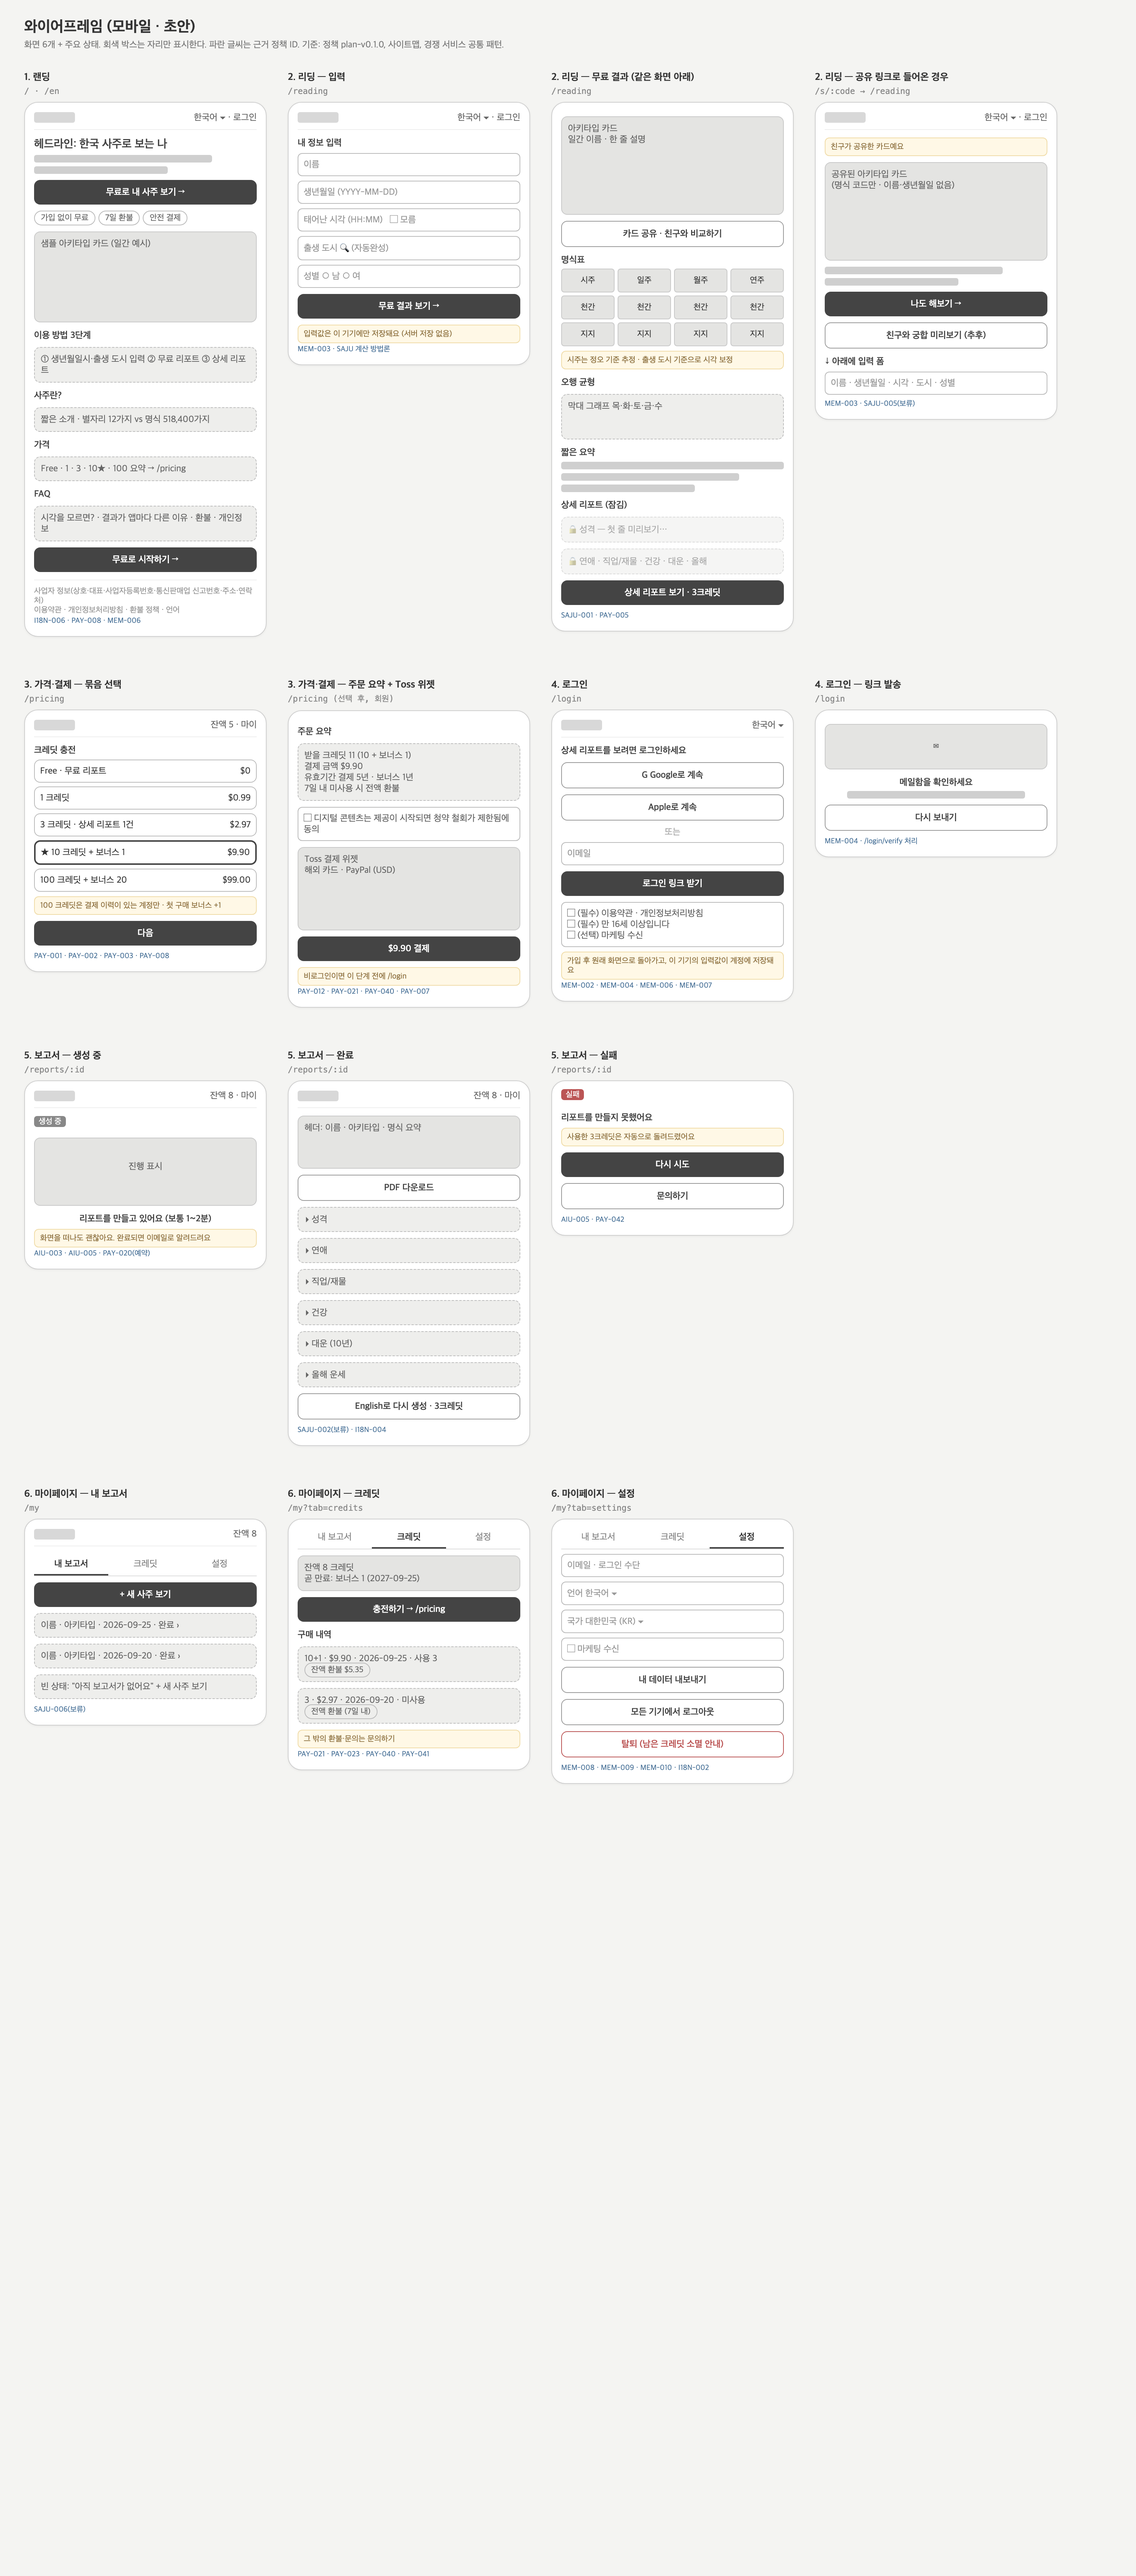
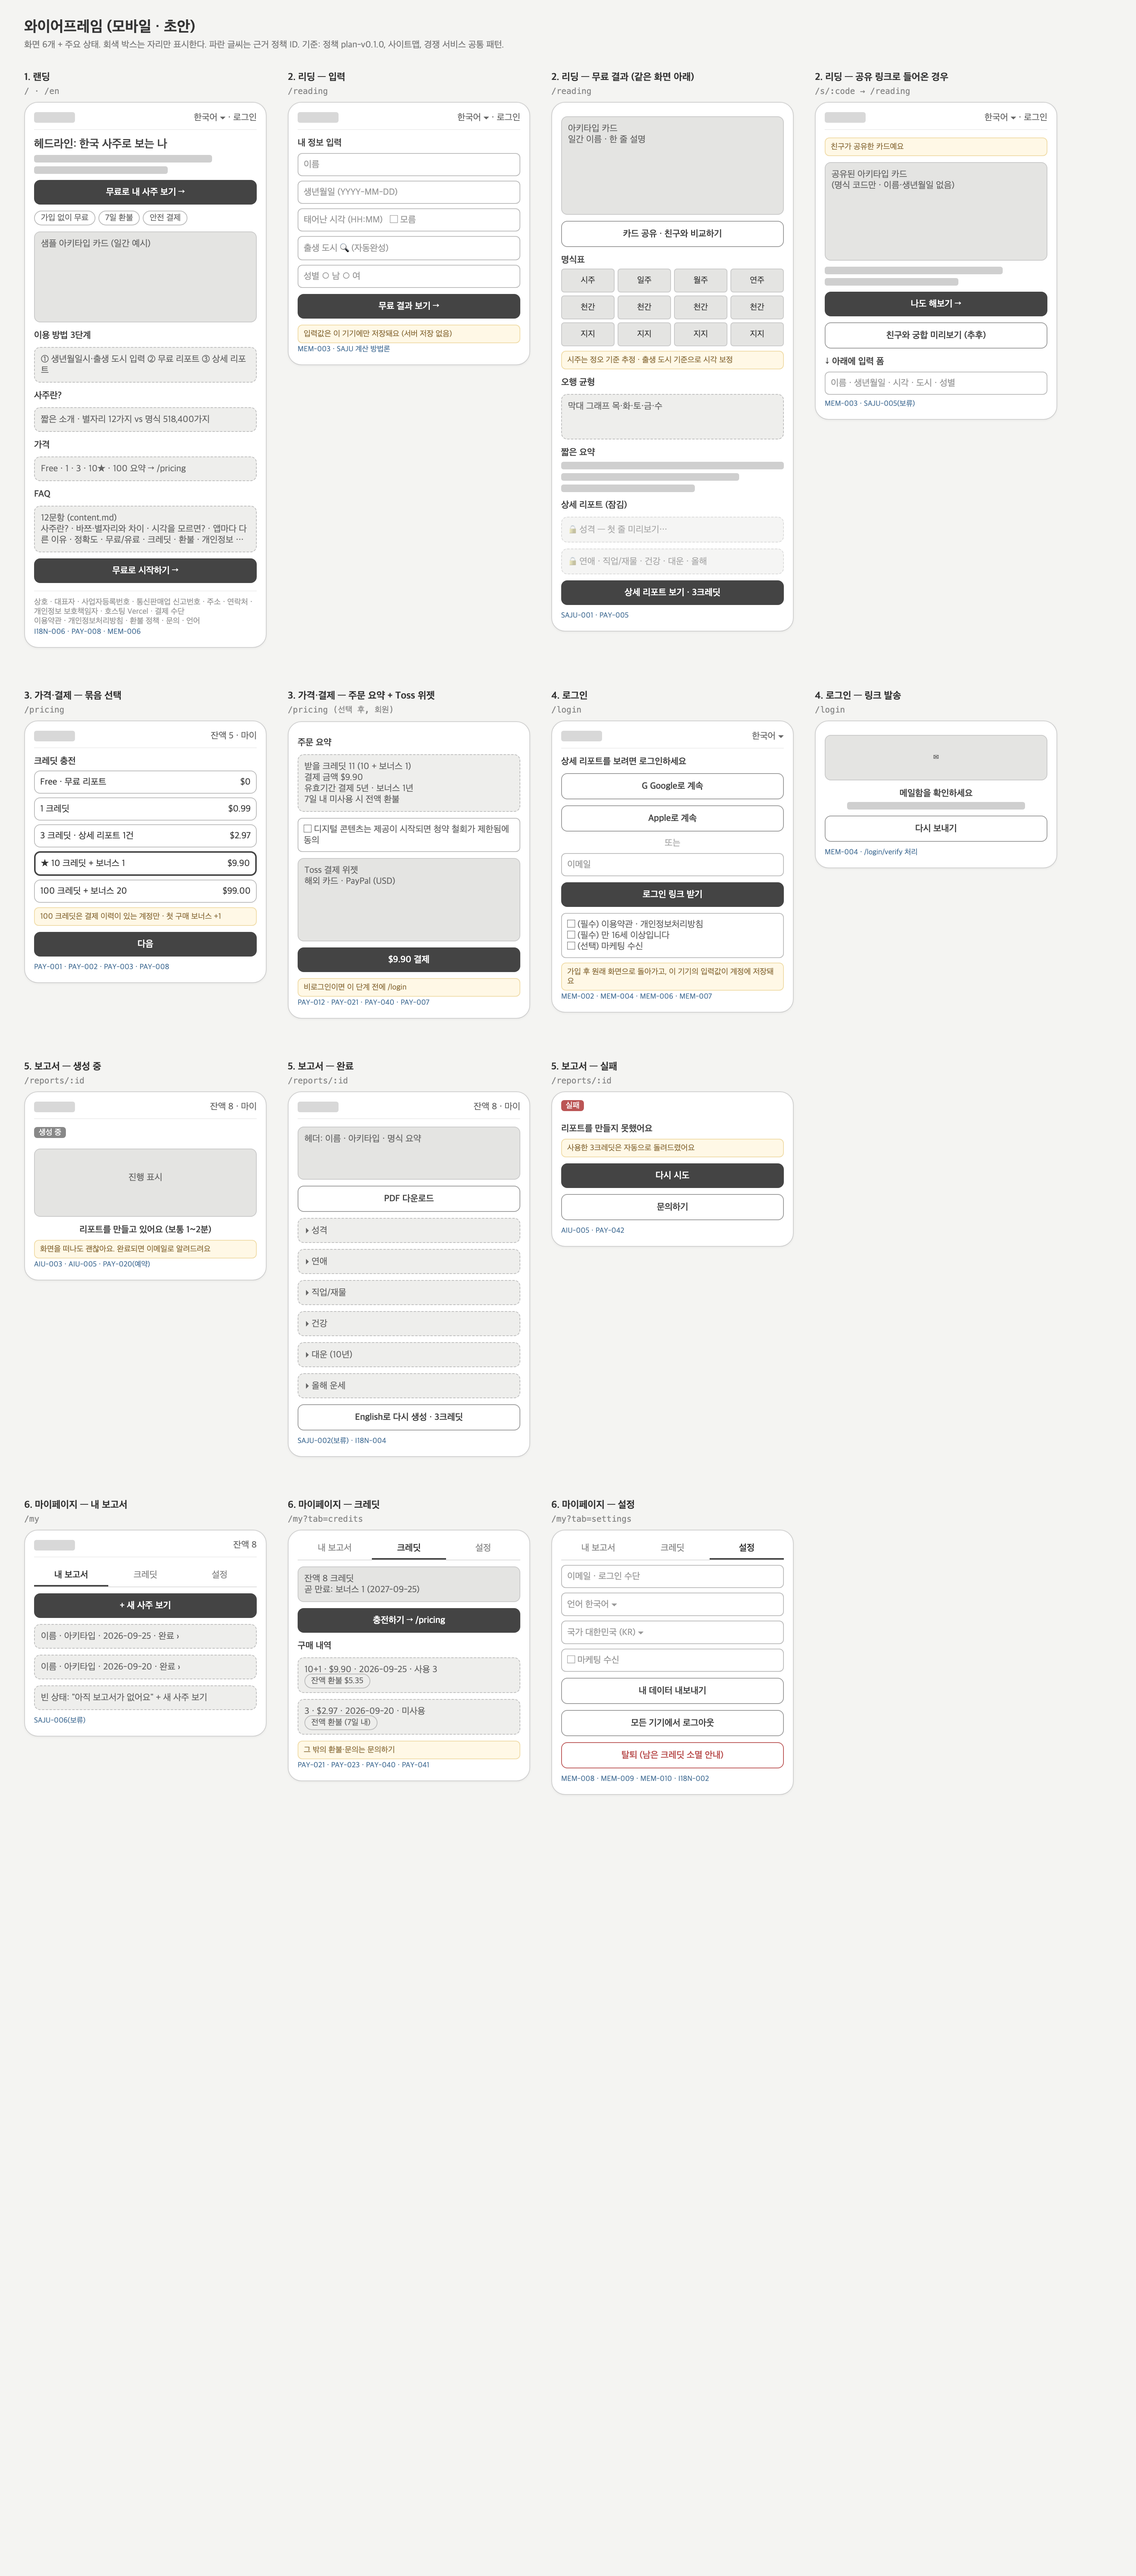
docs: add FAQ and footer content modeled on competitors

diff --git a/docs/planning/wireframes.html b/docs/planning/wireframes.html
@@ -60,9 +60,9 @@ footer.f{border-top:1px solid #eee;margin-top:10px;padding-top:8px;color:#999;fo
   <div class="t">가격</div>
   <div class="box">Free · 1 · 3 · 10★ · 100 요약 → /pricing</div>
   <div class="t">FAQ</div>
-  <div class="box">시각을 모르면? · 결과가 앱마다 다른 이유 · 환불 · 개인정보</div>
+  <div class="box">12문항 (content.md)<br>사주란? · 바쯔·별자리와 차이 · 시각을 모르면? · 앱마다 다른 이유 · 정확도 · 무료/유료 · 크레딧 · 환불 · 개인정보 …</div>
   <span class="btn">무료로 시작하기 →</span>
-  <footer class="f">사업자 정보(상호·대표·사업자등록번호·통신판매업 신고번호·주소·연락처)<br>이용약관 · 개인정보처리방침 · 환불 정책 · 언어</footer>
+  <footer class="f">상호 · 대표자 · 사업자등록번호 · 통신판매업 신고번호 · 주소 · 연락처 · 개인정보 보호책임자 · 호스팅 Vercel · 결제 수단<br>이용약관 · 개인정보처리방침 · 환불 정책 · 문의 · 언어</footer>
   <div class="pol">I18N-006 · PAY-008 · MEM-006</div>
 </div></div>
 

diff --git a/docs/planning/content.md b/docs/planning/content.md
@@ -1,0 +1,45 @@
+# 공통 콘텐츠 — FAQ · 푸터
+
+Status: 제안 · 경쟁 서비스(Cheonmyeongdang, Sajumuse)의 구성을 그대로 차용했다. 문구는 출시 전에 다듬는다.
+
+## FAQ (랜딩 하단)
+
+| # | 질문 | 답변 요지 | 근거 정책 |
+| --- | --- | --- | --- |
+| 1 | 사주가 뭔가요? | 태어난 연·월·일·시의 네 기둥(8글자)으로 타고난 성향과 흐름을 읽는 한국 전통 명리 | — |
+| 2 | 중국 바쯔(BaZi)나 서양 별자리와 뭐가 다른가요? | 뿌리는 같지만 한국 실무 방식을 따른다. 별자리는 12가지, 명식은 518,400가지 | SAJU 계산 방법론 |
+| 3 | K-드라마에 나오는 그 사주 맞나요? | 네, 한국에서 실제로 보는 방식 그대로 | — |
+| 4 | 태어난 시각을 모르면요? | 정오 기준으로 계산하고 시주는 추정으로 표시. 나중에 시각을 입력하면 다시 계산 | SAJU 계산 방법론 |
+| 5 | 앱마다 결과가 다른 이유는요? | 출생 도시 기준 시각 보정·자시 처리·서머타임 반영 방식이 달라서. 우리 기준을 짧게 안내 | SAJU 계산 방법론 |
+| 6 | 얼마나 정확한가요? | 정해진 운명이 아니라 경향을 보여준다. 의료·법률·재정 판단의 근거로 쓰지 않는다 | — |
+| 7 | 무료와 유료는 뭐가 다른가요? | 무료: 아키타입·명식·오행·요약. 유료(3크레딧): AI 상세 리포트·PDF | SAJU-001, PAY-005 |
+| 8 | 크레딧은 어떻게 쓰나요? 유효기간이 있나요? | 1크레딧 $0.99, 묶음 구매. 결제 5년·보너스 1년 | PAY-001~003, PAY-021 |
+| 9 | 환불되나요? | 7일 내 미사용 전액, 그 외 잔액 환불(10% 공제). 마이페이지에서 바로 신청 | PAY-040, PAY-041 |
+| 10 | 입력한 정보는 저장되나요? | 가입 전에는 서버에 저장하지 않는다. 가입 후에도 언제든 삭제 가능 | MEM-003, MEM-008 |
+| 11 | 앱을 설치해야 하나요? | 아니요, 브라우저에서 바로 | — |
+| 12 | 상세 리포트는 얼마나 걸리나요? | 보통 1~2분, 완료되면 이메일로 알림 | AIU-003 |
+
+## 푸터 — 사업자 정보 (전자상거래법 표시 의무)
+
+경쟁사와 같은 항목을 표시한다. 값은 사업자 등록 후 채운다.
+
+| 항목 | 값 |
+| --- | --- |
+| 상호 | (미정) |
+| 대표자 | (미정) |
+| 사업자등록번호 | (등록 후) |
+| 통신판매업 신고번호 | (신고 후) |
+| 주소 | (미정) |
+| 연락처 (이메일 · 전화) | (미정) |
+| 개인정보 보호책임자 | (미정) |
+| 호스팅 제공자 | Vercel Inc. |
+| 결제 수단 | 해외 카드, PayPal (Toss Payments) |
+
+링크: 이용약관 `/terms` · 개인정보처리방침 `/privacy` · 환불 정책 `/refund-policy` · 문의 · 언어 전환
+
+## 출시 전 준비 목록
+
+- 사업자등록, 통신판매업 신고
+- 개인정보 보호책임자 지정, 문의 이메일 개설
+- 이용약관 · 개인정보처리방침 · 환불 정책 본문 작성
+- 해외 판매 부가세 세무 상담 (PAY 정책 확인 항목)

diff --git a/docs/README.md b/docs/README.md
@@ -5,7 +5,7 @@
 | 폴더 | 소유하는 것 | 문서 |
 | --- | --- | --- |
 | `policies/` | **무엇을 어떻게 운영하는가** (정책 SSOT, 버전 `plan-vX.Y.Z`) | [README](policies/README.md) · [회원](policies/members.md) · [결제](policies/payments.md) · [AI 사용 내역](policies/ai-usage.md) · [i18n](policies/i18n.md) · [사주 (계산 방법론 포함)](policies/saju.md) |
-| `planning/` | **사용자가 무엇을 겪는가** (기획) | [경쟁 서비스 분석](planning/competitive-analysis.md) · [유저 저니](planning/user-journey.md) · [사이트맵](planning/sitemap.md) · [와이어프레임](planning/wireframes.html) |
+| `planning/` | **사용자가 무엇을 겪는가** (기획) | [경쟁 서비스 분석](planning/competitive-analysis.md) · [유저 저니](planning/user-journey.md) · [사이트맵](planning/sitemap.md) · [와이어프레임](planning/wireframes.html) · [FAQ·푸터](planning/content.md) |
 | `architecture/` | **어떻게 만드는가** (기술 설계) | [도메인 경계](architecture/domains.md) · [AI 모듈](architecture/ai-module.md) · [i18n 흐름·데이터](architecture/i18n.md) · [환경변수](architecture/env.md) · [배포 인프라](architecture/infra.md) |
 
 ## 읽는 순서
